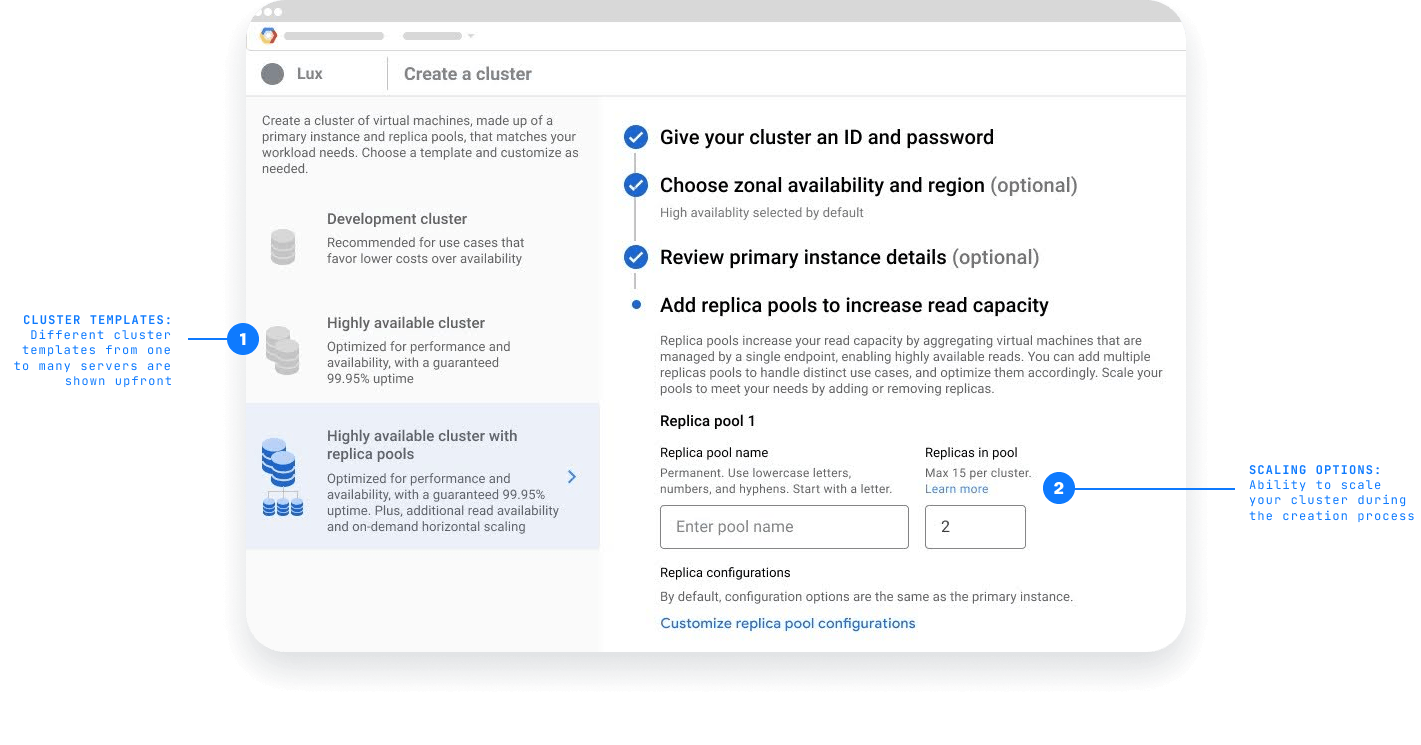
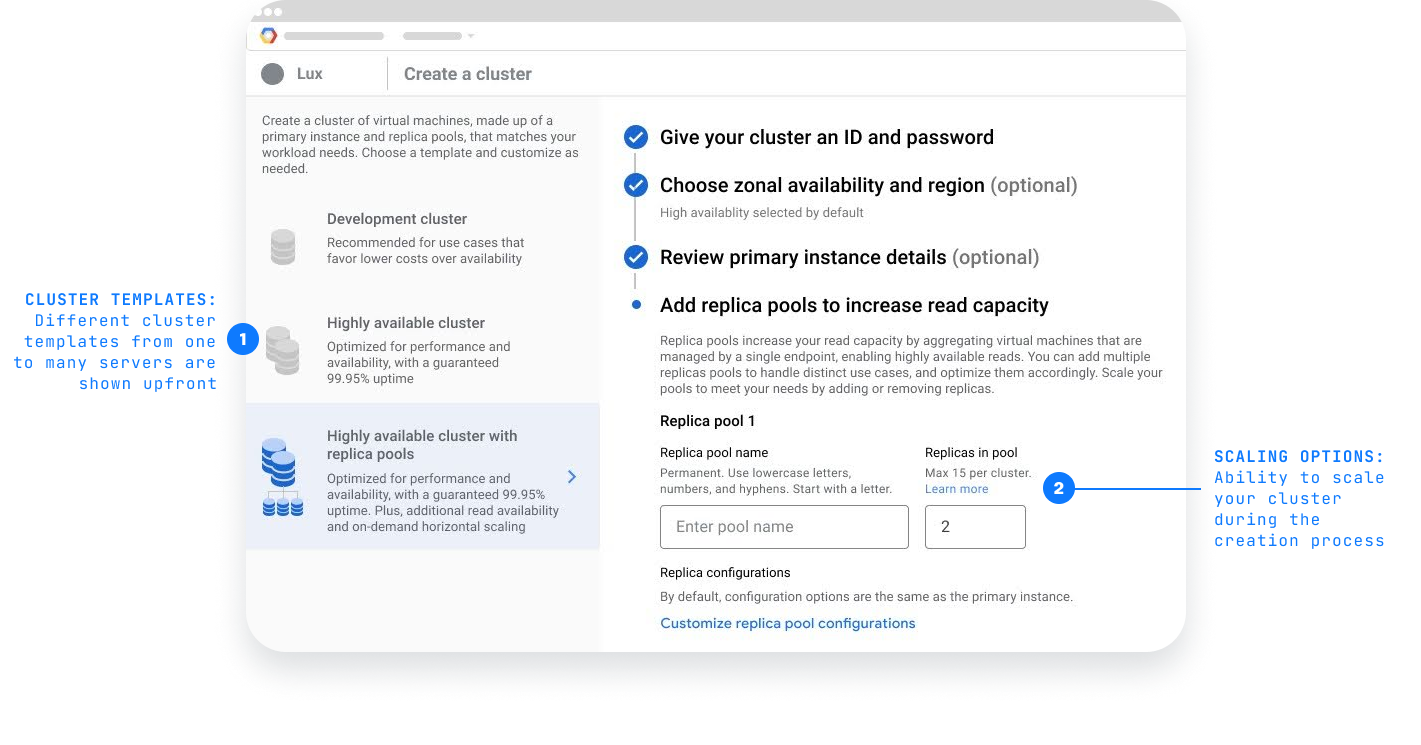
Fold Refine into Research as subsections 03–04; renumber downstream
Merge the former Refine section into Research: the intro and the
prototype subsection become 03 (Three directions. One decision.) with the
three option wireframes, and the results subsection moves in as 04 (What
customers told us). Remove the standalone Refine section and renumber the
remaining phases — Build 03→02, Launch 04→03, Reflection 05→04, with
Build's subsections shifting 3.x→2.x. Also update the wf-test.png asset.

Changed region(s): [[0.0, 0.3705, 0.1548, 0.5248], [0.836, 0.5866, 1.0, 0.7409]]

diff --git a/alloydb.html b/alloydb.html
@@ -802,25 +802,13 @@ footer { background: var(--bg-dark); border-top: 1px solid rgb(var(--text-light-
         </div>
       </div>
 
-    </div>
-  </section>
-
-  <!-- ── 02 REFINE ── -->
-  <section class="cs-section">
-    <div class="container">
-      <div class="label" data-fade>02 — Refine</div>
-      <h2 class="cs-section-title" data-fade data-delay="1">Three directions. One decision.</h2>
-      <div class="cs-section-body" data-fade data-delay="2" style="padding-bottom: var(--space-9);">
-        <p>The first test confirmed customers wanted scaling options at creation time. What it didn't settle was how those options should be presented. I went back to the drawing board and designed three directions, each handling that question differently.</p>
-      </div>
-
-      <!-- Sub: Three Prototypes -->
+      <!-- Sub: Three directions -->
       <div class="design-moment" data-fade>
-        <div class="design-moment-num">2.1</div>
+        <div class="design-moment-num">03</div>
         <div class="design-moment-content">
-          <h3 class="design-moment-title">The question behind the prototypes</h3>
+          <h3 class="design-moment-title">Three directions. One decision.</h3>
           <div class="design-moment-body">
-            <p>Each direction took a different position on how visible the scaling decision should be. I put all three in front of customers to see which one read clearest.</p>
+            <p>The first test confirmed customers wanted scaling options at creation time. What it didn't settle was how those options should be presented. I designed three directions, each taking a different position on how visible the scaling decision should be. I put all three in front of customers to see which one read clearest.</p>
           </div>
           <div class="poc-image-wrap" style="border-top: 1px solid var(--mid); padding-top: var(--space-8); margin-top: var(--space-8); margin-bottom: 0;">
             <h3 class="design-moment-title" style="margin-bottom: var(--space-4); font-size: clamp(16px, 1.5vw, 20px);">Option 1 — Illustrative</h3>
@@ -845,7 +833,7 @@ footer { background: var(--bg-dark); border-top: 1px solid rgb(var(--text-light-
 
       <!-- Sub: What customers told us -->
       <div class="design-moment" data-fade>
-        <div class="design-moment-num">2.2</div>
+        <div class="design-moment-num">04</div>
         <div class="design-moment-content">
           <h3 class="design-moment-title">What customers told us</h3>
           <div class="design-moment-body">
@@ -863,17 +851,17 @@ footer { background: var(--bg-dark); border-top: 1px solid rgb(var(--text-light-
     </div>
   </section>
 
-  <!-- ── 03 BUILD ── -->
+  <!-- ── 02 BUILD ── -->
   <section class="cs-section">
     <div class="container">
-      <div class="label" data-fade>03 — Build</div>
+      <div class="label" data-fade>02 — Build</div>
       <h2 class="cs-section-title" data-fade data-delay="1">Making it real.</h2>
       <div class="cs-section-body" data-fade data-delay="2" style="padding-bottom: var(--space-9);">
         <p>What followed was the work that turned the bet into a product: naming the thing, illustrating the architecture, and detailing the surfaces customers would create and operate clusters from.</p>
       </div>
 
       <div class="design-moment" data-fade>
-        <div class="design-moment-num">3.1</div>
+        <div class="design-moment-num">2.1</div>
         <div class="design-moment-content">
           <h3 class="design-moment-title">Naming the product</h3>
           <div class="design-moment-body">
@@ -887,7 +875,7 @@ footer { background: var(--bg-dark); border-top: 1px solid rgb(var(--text-light-
       </div>
 
       <div class="design-moment" data-fade>
-        <div class="design-moment-num">3.2</div>
+        <div class="design-moment-num">2.2</div>
         <div class="design-moment-content">
           <h3 class="design-moment-title">Diving into the illustrations</h3>
           <div class="design-moment-body">
@@ -902,7 +890,7 @@ footer { background: var(--bg-dark); border-top: 1px solid rgb(var(--text-light-
       </div>
 
       <div class="design-moment" data-fade>
-        <div class="design-moment-num">3.3</div>
+        <div class="design-moment-num">2.3</div>
         <div class="design-moment-content">
           <h3 class="design-moment-title">The cluster overview page</h3>
           <div class="design-moment-body">
@@ -970,12 +958,12 @@ footer { background: var(--bg-dark); border-top: 1px solid rgb(var(--text-light-
     </div>
   </section>
 
-  <!-- ── 04 THE LAUNCH ── -->
+  <!-- ── 03 THE LAUNCH ── -->
   <section class="cs-section">
     <div class="container">
       <div class="cs-section-brief" data-fade>
         <div>
-          <div class="label">04 — The Launch</div>
+          <div class="label">03 — The Launch</div>
           <h2 class="cs-section-title">V1, then I/O.</h2>
           <div class="cs-section-body">
             <p>AlloyDB launched in private preview nine months after the assignment came down. From product idea to a working v1 in customers' hands. The cluster creation flow my team and I designed became the front door of the product.</p>
@@ -992,10 +980,10 @@ footer { background: var(--bg-dark); border-top: 1px solid rgb(var(--text-light-
     </div>
   </section>
 
-  <!-- ── 05 REFLECTION ── -->
+  <!-- ── 04 REFLECTION ── -->
   <section class="cs-section">
     <div class="container">
-      <div class="label" data-fade>05 — What I'd Do Differently</div>
+      <div class="label" data-fade>04 — What I'd Do Differently</div>
       <h2 class="cs-section-title" data-fade data-delay="1">The columnar engine.</h2>
       <div class="cs-section-body" data-fade data-delay="2">
         <p>The columnar engine was one of AlloyDB's most distinctive technical capabilities. The launch announcement described it as a vectorized columnar accelerator, and called out analytical queries running up to 100 times faster than standard PostgreSQL because of it. It was a real selling point.</p>
